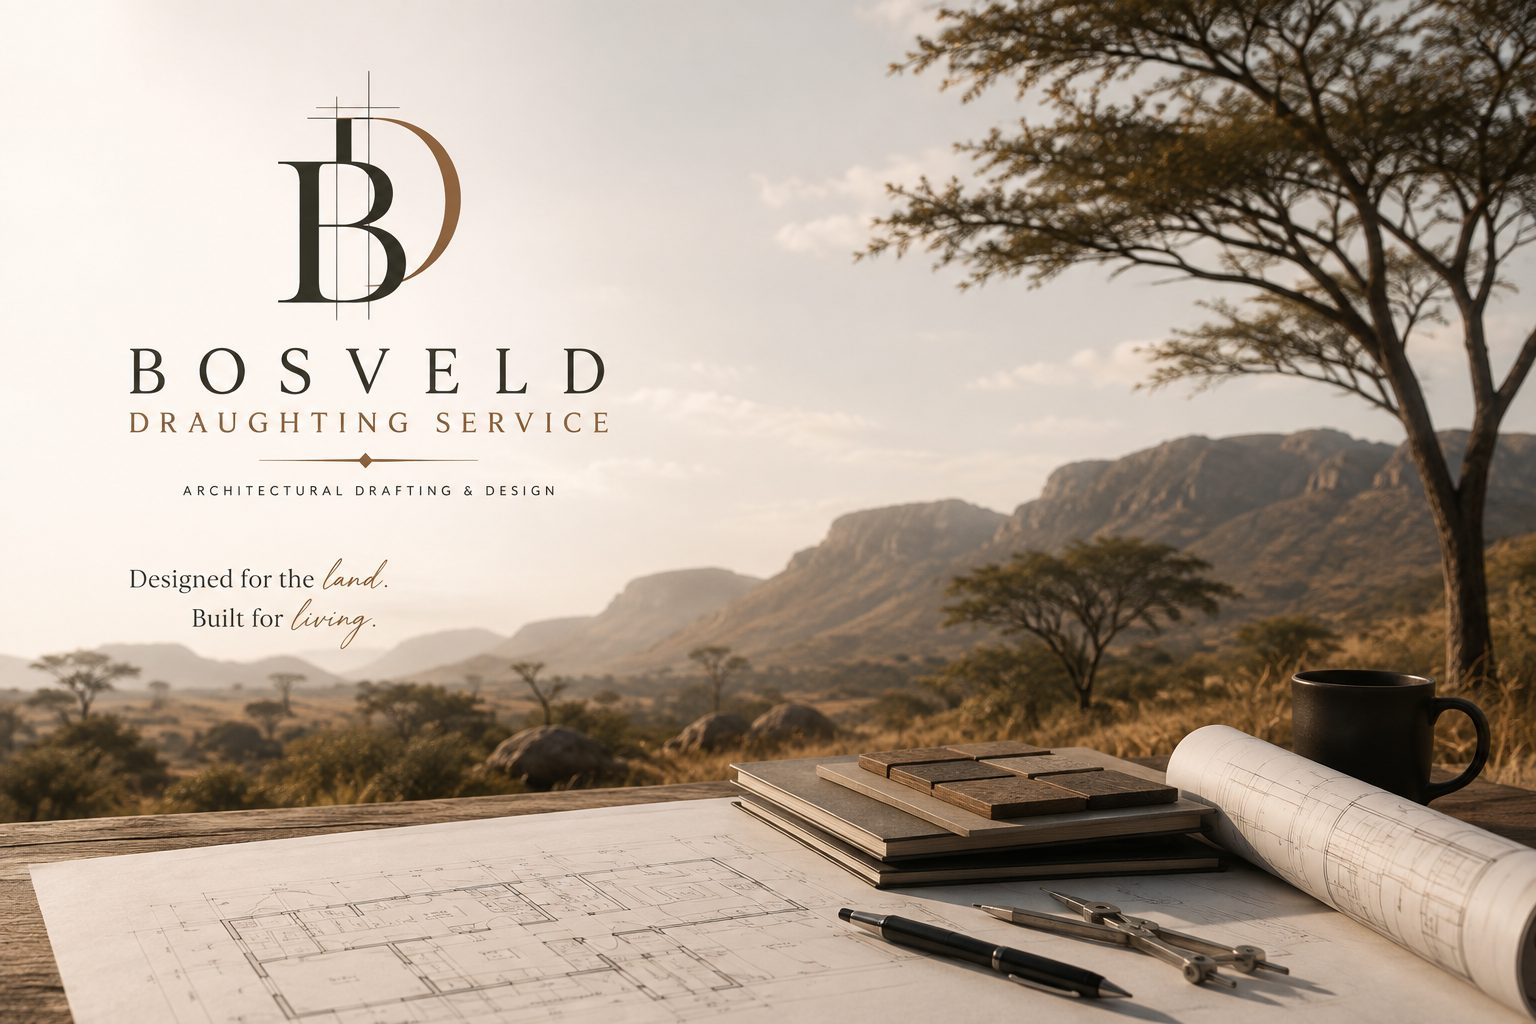
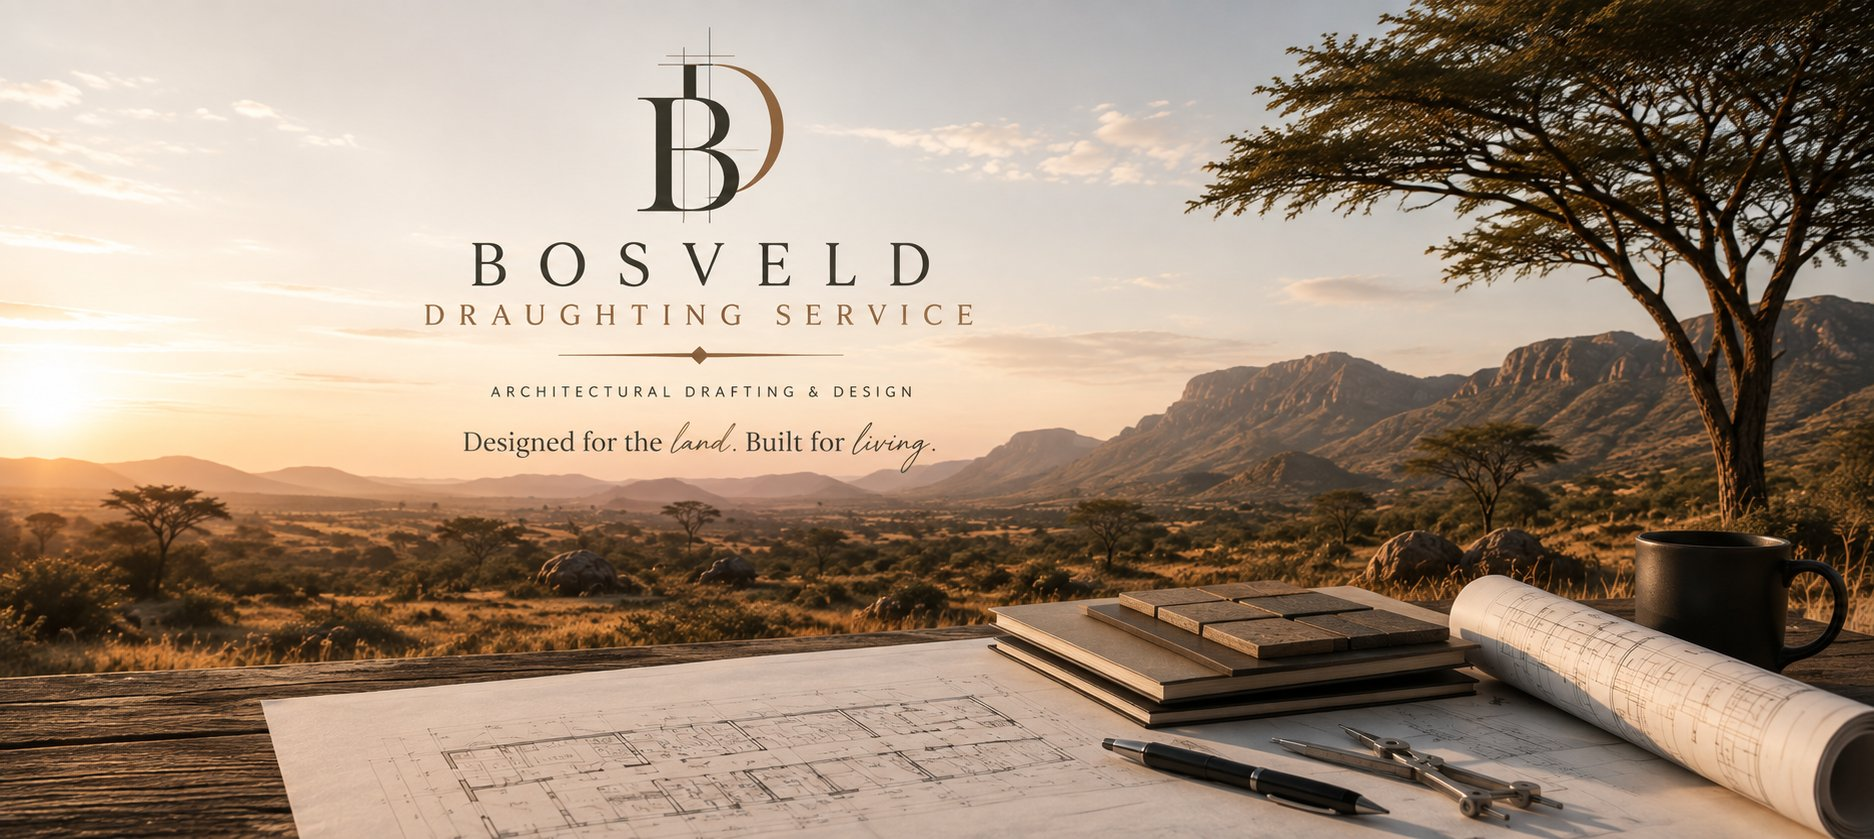
Add files via upload

diff --git a/index.html b/index.html
@@ -177,7 +177,7 @@
 
   /* hero banner */
   .hero-banner{width:100%;line-height:0;background:var(--charcoal);}
-  .hero-banner img{width:100%;height:auto;display:block;max-height:640px;object-fit:cover;object-position:center 35%;}
+  .hero-banner img{width:100%;height:auto;display:block;max-height:560px;object-fit:cover;object-position:center 45%;}
 
   /* hero */
   .hero{
@@ -371,7 +371,7 @@
 </header>
 
 <div class="hero-banner">
-  <img src="hero-banner.jpg" alt="Bosveld Draughting Service — Designed for the land. Built for living. Draughting tools and house plans overlooking the Lephalale bushveld." width="1536" height="1024">
+  <img src="hero-banner.jpg" alt="Bosveld Draughting Service — Designed for the land. Built for living. Draughting tools and house plans overlooking the Lephalale bushveld." width="1874" height="839">
 </div>
 
 <section class="hero" id="top">
